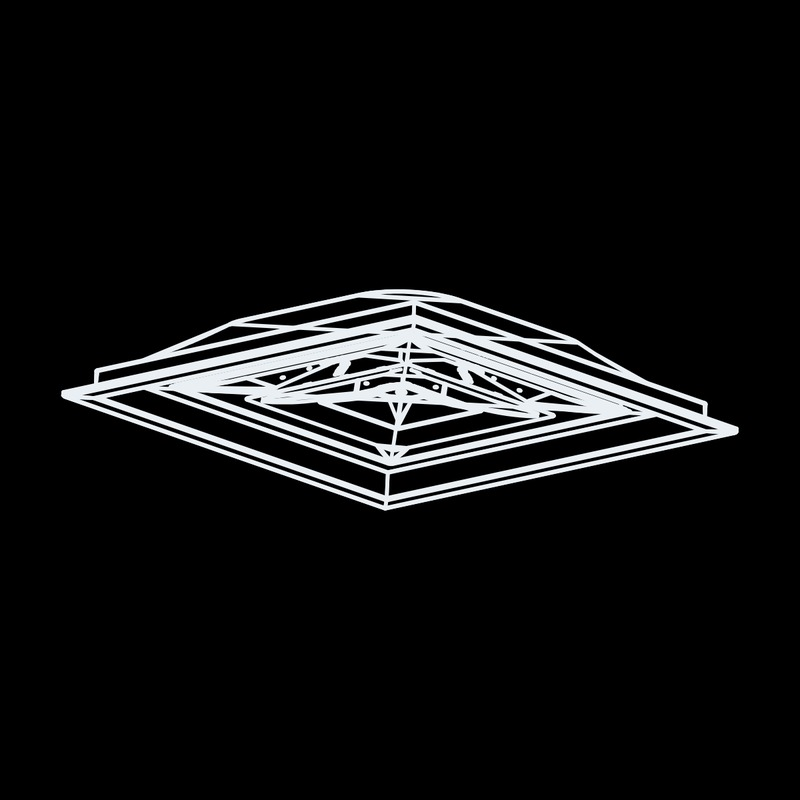
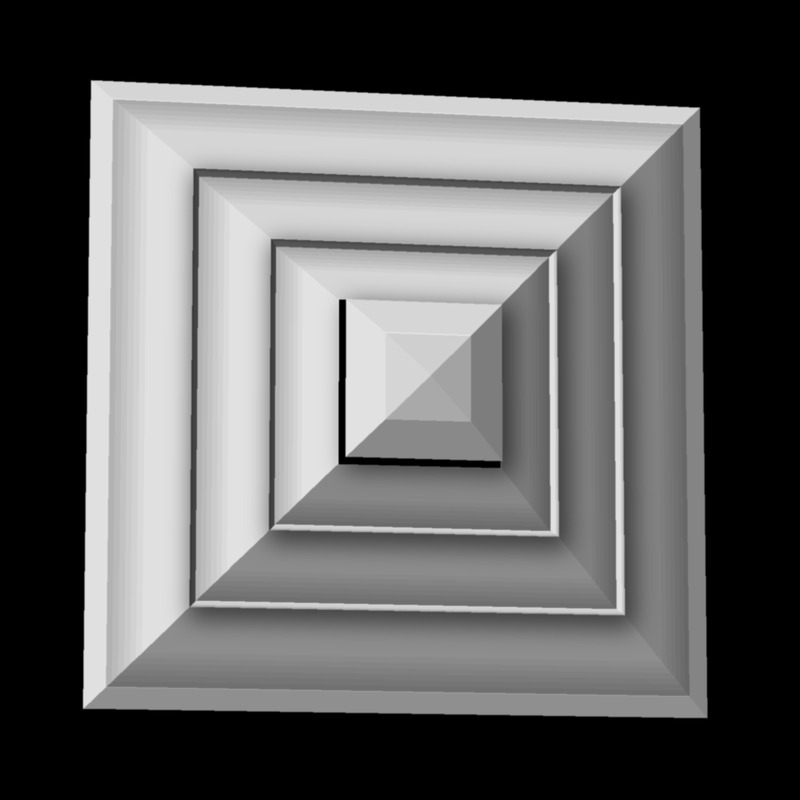
7.27.2026 - R2

diff --git a/CSS/products.css b/CSS/products.css
@@ -11,7 +11,12 @@
     flex-direction: column;
     align-items: center;          /* center the inner block on the page */
     padding: var(--space-md);
-    overflow: hidden;
+    /* Tall-enough windows behave as before (schedule scrolls inside its
+       own card). When the window is too short to fit header + gallery +
+       filters + a usable slice of schedule, the view itself scrolls
+       vertically instead of clipping the schedule out of reach. */
+    overflow-y: auto;
+    overflow-x: hidden;
     min-height: 0;
 }
 
@@ -28,6 +33,26 @@
     flex: 1;
     min-height: 0;
     overflow: hidden;
+}
+
+/* Short windows (unmaximized / low-res screens): the pinned-header
+   layout above would crush or clip the schedule once the title +
+   gallery + filter rows eat most of the height. Switch to a scrolling
+   page instead: the inner column takes its natural height, the
+   schedule card gets a viewport-relative height (still scrolling
+   internally with sticky headers), and .product-view's overflow-y
+   scrolls everything into reach. */
+@media (max-height: 840px) {
+    .product-view-inner {
+        flex: none;
+        min-height: auto;
+        overflow: visible;
+    }
+
+    .product-view .schedule-wrap {
+        flex: none;
+        height: max(360px, 64vh);
+    }
 }
 
 /* Title row at the top of the product page */
@@ -540,15 +565,30 @@
     display: none;
 }
 
+/* Always a single row: cards shrink evenly below their 128px ideal so
+   the strip fits the window (freeing vertical space for the schedule on
+   small screens). If the window is narrower than the cards' floor, the
+   strip scrolls horizontally rather than wrapping. */
 .model-gallery {
     display: flex;
-    flex-wrap: wrap;
+    flex-wrap: nowrap;
     gap: var(--space-sm);
-    justify-content: center;
+    overflow-x: auto;
+    padding-bottom: 2px;
 }
 
+/* Center the row when it fits without clipping the left edge when it
+   overflows (the `justify-content: center` + overflow combo would make
+   the leftmost cards unreachable). */
+.model-card:first-child { margin-left: auto; }
+.model-card:last-child { margin-right: auto; }
+
 .model-card {
-    width: 128px;
+    flex: 0 1 128px;
+    min-width: 82px;
+    /* Size container so the caption text can adapt to how far the card
+       was squeezed (see @container rules below). */
+    container-type: inline-size;
     background-color: var(--color-surface);
     border: 1px solid var(--color-border);
     border-radius: var(--radius-md);
@@ -604,6 +644,35 @@
     color: var(--color-text-muted);
     padding: 2px var(--space-xs) 0;
     text-transform: capitalize;
+}
+
+/* Narrower windows: tighten the strip so even the 15-card grille
+   gallery fits a ~1200px window without resorting to horizontal
+   scrolling. */
+@media (max-width: 1440px) {
+    .model-gallery {
+        gap: var(--space-xs);
+    }
+
+    .model-card {
+        min-width: 72px;
+    }
+}
+
+/* Squeezed cards (single-row gallery on narrow windows): drop the
+   long-form description first, then step the family label down so
+   grouped names like "500/600/700 RTN" still fit. */
+@container (max-width: 112px) {
+    .model-card-desc {
+        display: none;
+    }
+}
+
+@container (max-width: 96px) {
+    .model-card-label {
+        font-size: 10px;
+        overflow-wrap: break-word;
+    }
 }
 
 /* ============================================================

diff --git a/JS/base.js b/JS/base.js
@@ -638,6 +638,18 @@
         bar.className = 'filter-bar';
 
         visibleFilters.forEach(function (fc) {
+            var options = getUniqueFilterValues(data, fc.name, filterValues, visibleFilters);
+            var current = filterValues[fc.name];
+            var hasValue = current !== null && current !== undefined;
+
+            // Multi-model sheets leave many columns blank for most models
+            // (e.g. CORE STYLE only applies to SMD diffusers). Once the
+            // current selection has no values for a filter, its dropdown
+            // would offer nothing but "All" - hide it instead of showing
+            // a dead control. It reappears as soon as the selection
+            // changes to rows that carry values for it.
+            if (!options.length && !hasValue) return;
+
             var group = document.createElement('div');
             group.className = 'filter-group';
 
@@ -653,15 +665,14 @@
             allOpt.textContent = 'All';
             select.appendChild(allOpt);
 
-            getUniqueFilterValues(data, fc.name, filterValues, visibleFilters).forEach(function (v) {
+            options.forEach(function (v) {
                 var opt = document.createElement('option');
                 opt.value = String(v);
                 opt.textContent = String(v);
                 select.appendChild(opt);
             });
 
-            var current = filterValues[fc.name];
-            if (current !== null && current !== undefined) {
+            if (hasValue) {
                 select.value = String(current);
                 // Mark constraining filters so the bar shows at a glance
                 // which dropdowns are set vs. on "All" (styled in
